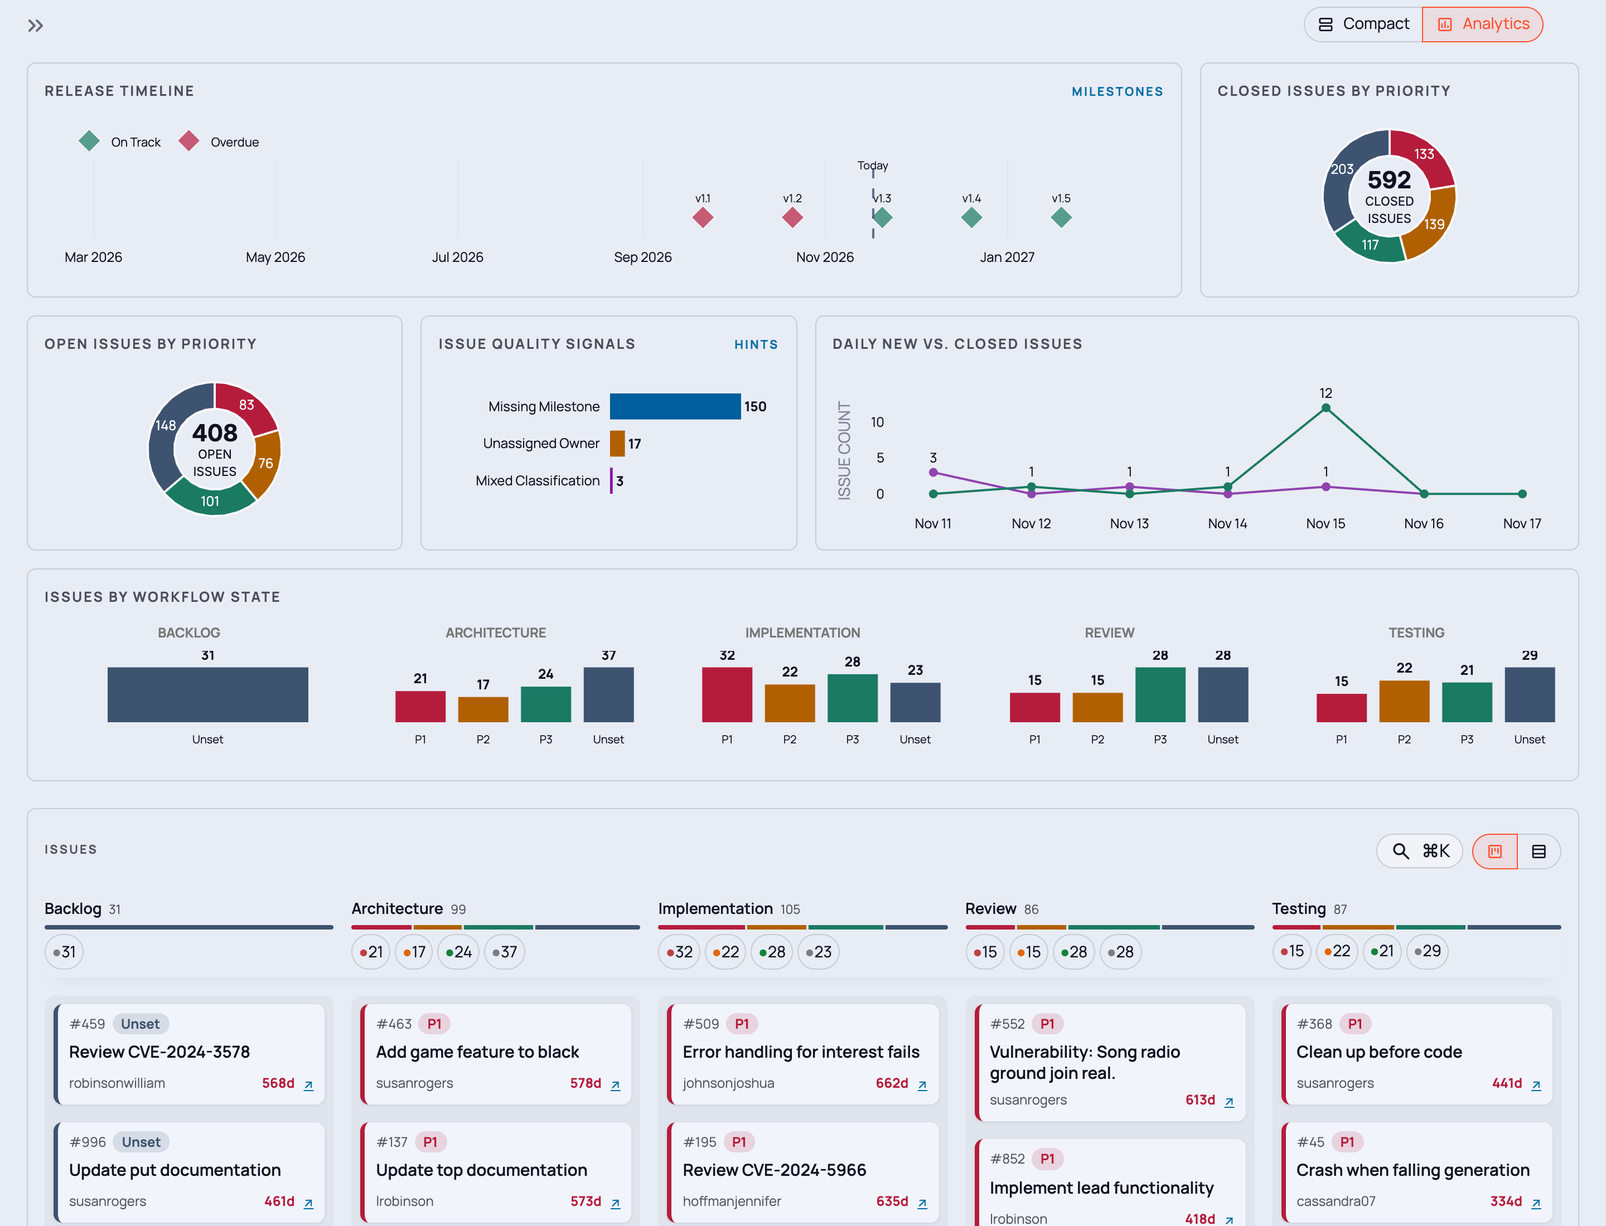
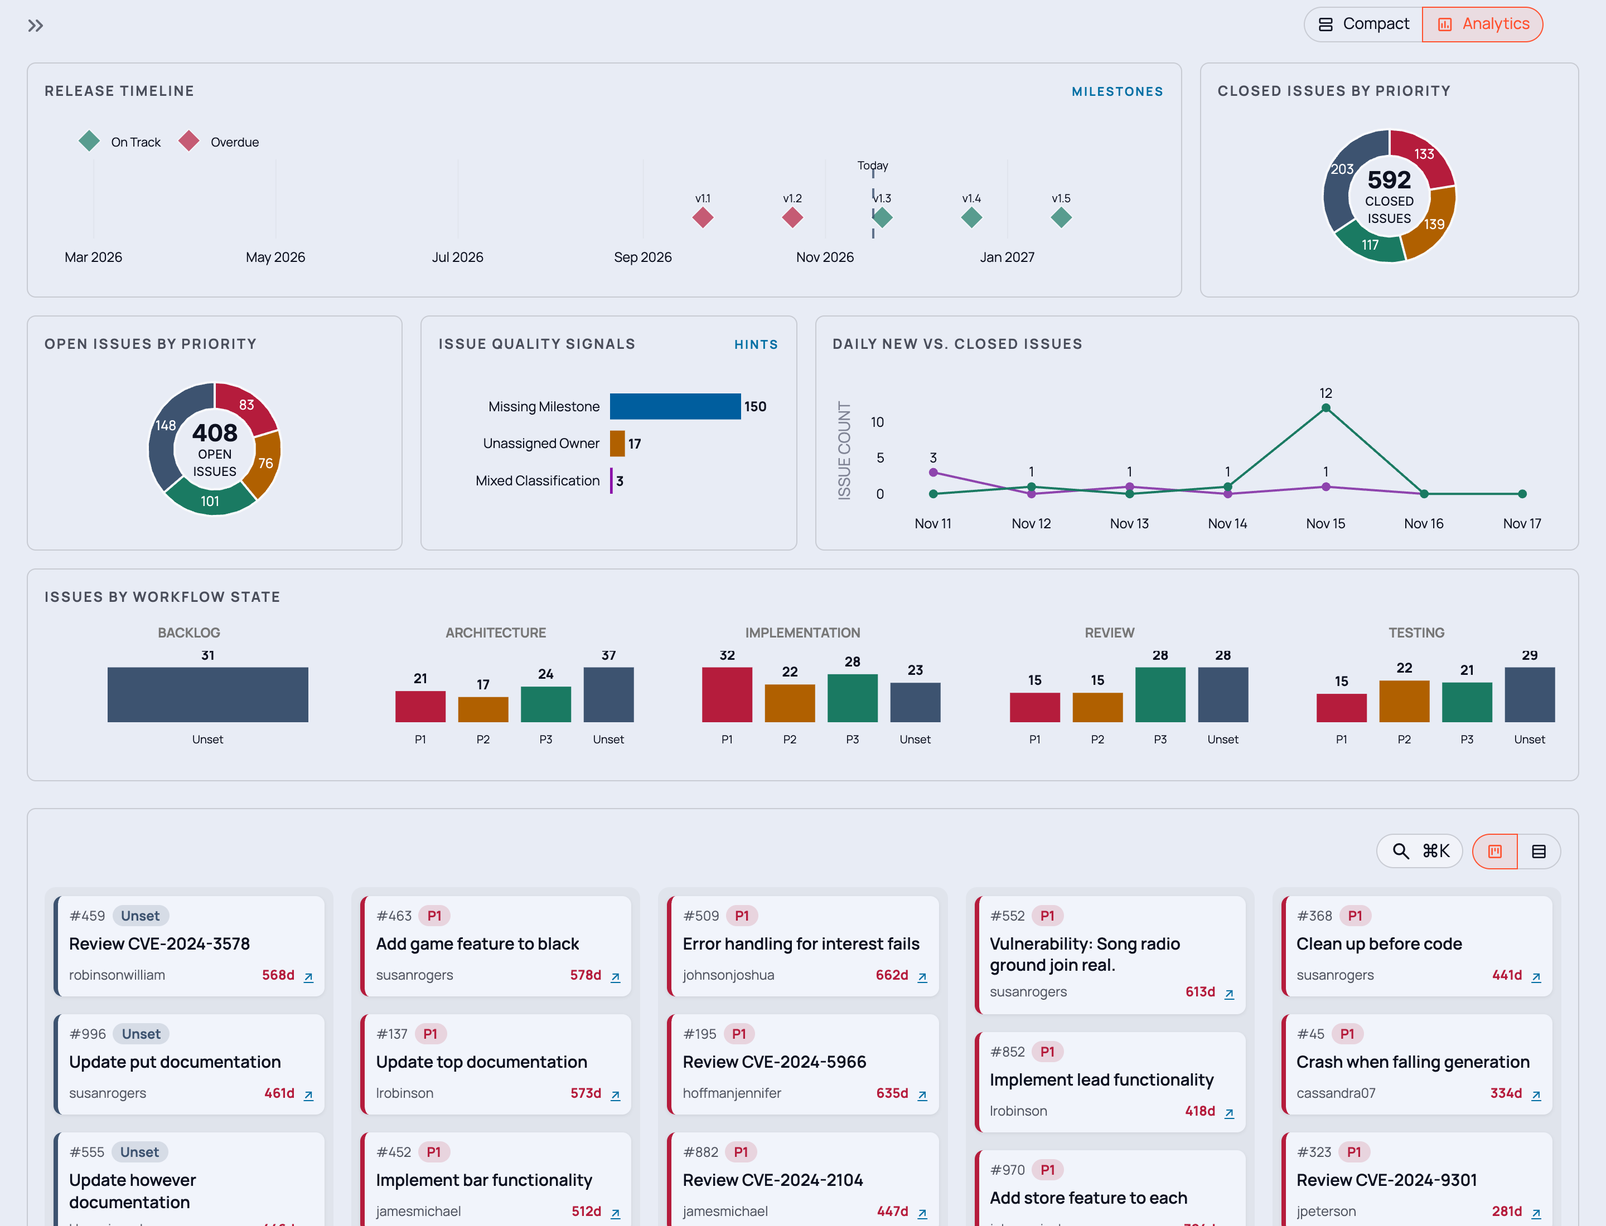
feat(dashboard): slim the Analytics board header and make chart filters toggle
In the Analytics layout the board's header holds only the search button
and the board/table switch, right-aligned, and the lanes have no headers
of their own: the charts above show the counts and the active filter, and
the pinned workflow-state row names each lane's stage.
render_issue_panel gets show_filters and lane_headers, issue_board gets
lane_headers; Compact keeps all of them.

Without filter chips, a chart filter is removed by clicking its segment
again. Charts that keep Plotly's selection see a deselect, which counts
once the chart has reported its selection back on a later run; charts
that draw their own highlight see a new selection equal to the current
filter.

The workflow-state bars now draw the selection themselves (priority_bar
options highlight and dimmed): the selected bar in full colour, all other
bars dimmed, across every stage. Plotly's own selection dimmed only
within the clicked stage and was dropped when a dimmed stage was clicked
and redrawn.

diff --git a/app/dashboard/views/issue_panel.py b/app/dashboard/views/issue_panel.py
@@ -106,10 +106,12 @@ def _reset_charts(except_chart: str | None = None) -> None:
         st.session_state["issue_chart"] = None
     resets: dict[str, int] = st.session_state.setdefault("issue_chart_resets", {})
     signatures: dict[str, str] = st.session_state.setdefault("issue_chart_signatures", {})
+    confirmed: dict[str, bool] = st.session_state.setdefault("issue_chart_confirmed", {})
     for chart_id in list(signatures):
         if chart_id != except_chart:
             resets[chart_id] = resets.get(chart_id, 0) + 1
             del signatures[chart_id]
+            confirmed.pop(chart_id, None)
 
 
 def apply_chart_selection(
@@ -123,20 +125,37 @@ def apply_chart_selection(
     Plotly keeps reporting a selection on every rerun, so a selection is only
     applied when it differs from the last one seen for that chart. The chart's
     facets replace the board's filter (the search text is kept); the other
-    charts drop their highlight.
+    charts drop their highlight. Clicking the segment that set the filter again
+    removes it.
     """
     points = (selection or {}).get("selection", {}).get("points") or []
     signatures: dict[str, str] = st.session_state.setdefault("issue_chart_signatures", {})
+    # Charts whose selection was reported again on a later run: Plotly keeps
+    # it, so an empty selection from them afterwards is the user deselecting.
+    # (A chart that redraws its highlight, like the donuts, loses the
+    # selection on the next run instead and is never confirmed.)
+    confirmed: dict[str, bool] = st.session_state.setdefault("issue_chart_confirmed", {})
     if not points:
         signatures.pop(chart_id, None)
+        if confirmed.pop(chart_id, False) and st.session_state.get("issue_chart") == chart_id:
+            _clear_chart_filter()
         return
     signature = json.dumps(points, sort_keys=True, default=str)
     if signatures.get(chart_id) == signature:
+        confirmed[chart_id] = True
         return
     signatures[chart_id] = signature
+    confirmed[chart_id] = False
 
     facets = facets_from_selection(chart_id, points, stage_filter, state_filter)
-    query = _get_facets().get("query")
+    current = _get_facets()
+    query = current.get("query")
+    # For a chart that redraws its highlight, a second click on the segment
+    # arrives as a new selection of the same thing.
+    if st.session_state.get("issue_chart") == chart_id and without_facet(
+        current, "query"
+    ) == facets:
+        _clear_chart_filter()
     if query:
         facets["query"] = query
     st.session_state["issue_summary"] = None
@@ -146,6 +165,22 @@ def apply_chart_selection(
     _reset_charts(except_chart=chart_id)
     _reset_table()
     st.rerun()
+
+
+def _clear_chart_filter() -> None:
+    """Drop the filter a chart set (a second click on its segment), keeping the
+    search text. Analytics shows no filter chips, so this is how a chart filter
+    is removed there.
+    """
+    query = _get_facets().get("query")
+    _set_facets(IssueFacets(query=query) if query else IssueFacets())
+    st.rerun()
+
+
+def active_chart() -> str | None:
+    """Return the chart whose click set the board's current filter, if any."""
+    chart = st.session_state.get("issue_chart")
+    return str(chart) if chart else None
 
 
 def chart_priority_highlight(chart_id: str) -> str | None:
@@ -985,6 +1020,7 @@ def _render_panel_header(
     facets: IssueFacets,
     count_caption: str,
     toolbar: Callable[[], None] | None,
+    show_filters: bool,
 ) -> str:
     """Render the board's header: one toolbar row, then chips if filtered.
 
@@ -1037,7 +1073,7 @@ def _render_panel_header(
 
     chips = facet_chips(facets)
     sidebar_chips = _sidebar_filter_chips()
-    if chips or sidebar_chips:
+    if show_filters and (chips or sidebar_chips):
         with st.container(
             key="issue_panel_chips", horizontal=True, vertical_alignment="center"
         ):
@@ -1073,6 +1109,8 @@ def render_issue_panel(
     df: pd.DataFrame,
     chart_stages: list[str],
     toolbar: Callable[[], None] | None = None,
+    show_filters: bool = True,
+    lane_headers: bool = True,
 ) -> None:
     """Render the issue board (or table) for the active facets.
 
@@ -1085,6 +1123,10 @@ def render_issue_panel(
             context.
         chart_stages: Stages with open issues, in workflow order (the lanes).
         toolbar: Renders the left part of the board's toolbar row.
+        show_filters: Show the active filters as chips, with the issue count.
+            Off where the charts above show the filters (Analytics).
+        lane_headers: Show a header above each lane. Off where the stages are
+            shown above the board (Analytics).
     """
     facets = _get_facets()
     effective = _with_default_state(facets)
@@ -1126,7 +1168,7 @@ def render_issue_panel(
     with st.container(border=True, key="issue_panel"):
         # Keyed so the toolbar and the chips stay pinned while the board scrolls.
         with st.container(key="issue_panel_head"):
-            view = _render_panel_header(facets, count_caption, toolbar)
+            view = _render_panel_header(facets, count_caption, toolbar, show_filters)
 
         if selected_row is not None:
             list_caption = ""
@@ -1188,6 +1230,7 @@ def render_issue_panel(
                             "highlight_stage": highlight_stage,
                             "lane_height": _LANE_HEIGHT,
                             "min_columns": len(chart_stages),
+                            "lane_headers": lane_headers,
                             "lane_header": _lane_header_renderer(
                                 facets, lane_counts, priority_color_names(df)
                             ),

diff --git a/tests/test_chart_toggle.py b/tests/test_chart_toggle.py
@@ -1,0 +1,83 @@
+"""A second click on the Analytics chart segment that set the board's filter
+removes the filter again (Analytics shows no filter chips)."""
+
+import contextlib
+import importlib
+from types import SimpleNamespace
+from typing import Any
+
+import pytest
+
+panel = importlib.import_module("app.dashboard.views.issue_panel")
+
+
+class _Rerun(Exception):
+    """Stands in for ``st.rerun``, which stops the script run."""
+
+
+@pytest.fixture
+def state(monkeypatch: pytest.MonkeyPatch) -> dict[str, Any]:
+    session: dict[str, Any] = {}
+
+    def rerun() -> None:
+        raise _Rerun
+
+    monkeypatch.setattr(panel, "st", SimpleNamespace(session_state=session, rerun=rerun))
+    return session
+
+
+def _run(selection_points: list[dict[str, Any]], chart_id: str, **filters: str) -> None:
+    """One script run in which the chart reports this selection."""
+    with contextlib.suppress(_Rerun):
+        panel.apply_chart_selection(
+            {"selection": {"points": selection_points}}, chart_id, **filters
+        )
+
+
+def test_deselecting_a_bar_removes_its_filter(state: dict[str, Any]) -> None:
+    """Plotly keeps a bar's selection, so the second click deselects it."""
+    bar = [{"x": "P1", "y": 21}]
+    _run(bar, "stage_bar_1", stage_filter="Architecture", state_filter="opened")
+    _run(bar, "stage_bar_1", stage_filter="Architecture", state_filter="opened")
+    assert state["issue_facets"] == {"stage": "Architecture", "state": "opened", "priority": "P1"}
+
+    _run([], "stage_bar_1", stage_filter="Architecture", state_filter="opened")
+
+    assert state["issue_facets"] == {}
+
+
+def test_second_click_on_a_donut_slice_removes_its_filter(state: dict[str, Any]) -> None:
+    """The donut redraws its highlight, which empties Plotly's selection, so
+    the second click on the slice arrives as a new selection."""
+    slice_ = [{"x": 0.3, "y": 0.6, "customdata": ["P1", 83]}]
+    _run(slice_, "open_donut", state_filter="opened")
+    _run([], "open_donut", state_filter="opened")
+    assert state["issue_facets"] == {"state": "opened", "priority": "P1"}
+
+    _run(slice_, "open_donut", state_filter="opened")
+
+    assert state["issue_facets"] == {}
+
+
+def test_search_text_survives_removing_a_chart_filter(state: dict[str, Any]) -> None:
+    state["issue_facets"] = {"query": "crash"}
+    slice_ = [{"customdata": ["P2", 76]}]
+    _run(slice_, "open_donut", state_filter="opened")
+    _run([], "open_donut", state_filter="opened")
+
+    _run(slice_, "open_donut", state_filter="opened")
+
+    assert state["issue_facets"] == {"query": "crash"}
+
+
+def test_a_chart_reset_by_another_filter_does_not_clear_it(state: dict[str, Any]) -> None:
+    """A chart rebuilt because the filter changed elsewhere reports an empty
+    selection; that must not remove the new filter."""
+    bar = [{"x": "P1", "y": 21}]
+    _run(bar, "stage_bar_1", stage_filter="Architecture", state_filter="opened")
+    _run(bar, "stage_bar_1", stage_filter="Architecture", state_filter="opened")
+    panel._set_facets({"state": "closed"})
+
+    _run([], "stage_bar_1", stage_filter="Architecture", state_filter="opened")
+
+    assert state["issue_facets"] == {"state": "closed"}

diff --git a/app/dashboard/widgets/tables/issue_board.py b/app/dashboard/widgets/tables/issue_board.py
@@ -168,9 +168,11 @@ def issue_board(df: pd.DataFrame, config: dict[str, Any] | None = None) -> str |
             (cards per column, default 50), ``stages`` (explicit columns, see
             ``build_board_columns``), ``highlight_stage`` (column to mark),
             ``min_columns`` (grid width in columns, so a board with fewer
-            columns keeps the same column width) and ``lane_header`` (a
+            columns keeps the same column width), ``lane_header`` (a
             callable ``(index, stage, cards)`` that renders a column's header
-            instead of the default title and count).
+            instead of the default title and count) and ``lane_headers``
+            (False: no column headers, for a page that shows the stages
+            above the board; default True).
 
     Returns:
         The ``web_url`` of the card clicked in this run, or None.
@@ -192,23 +194,26 @@ def issue_board(df: pd.DataFrame, config: dict[str, Any] | None = None) -> str |
     # stay pinned while the page scrolls: the lanes' row scrolls sideways on a
     # small screen, and nothing inside a sideways-scrolling row can stick to
     # the page (see the theme CSS and ``views.pinned_header``).
-    with st.container(key=f"{key}-ibheads"):
-        head_slots = st.columns(column_count)
+    head_slots: list[Any] = [None] * column_count
+    if config.get("lane_headers", True):
+        with st.container(key=f"{key}-ibheads"):
+            head_slots = list(st.columns(column_count))
     slots = st.columns(column_count)
     for i, (head_slot, slot, (stage, cards)) in enumerate(
         zip(head_slots, slots, columns, strict=False)
     ):
         lane_kind = "iblane-hl" if stage == highlight_stage else "iblane"
-        with head_slot:
-            lane_header = config.get("lane_header")
-            if lane_header is not None:
-                lane_header(i, stage, cards)
-            else:
-                st.markdown(
-                    f'<div class="ib-lane-head{" ib-lane-hl" if lane_kind == "iblane-hl" else ""}">'
-                    f"<b>{html.escape(stage)}</b> <small>{len(cards)}</small></div>",
-                    unsafe_allow_html=True,
-                )
+        if head_slot is not None:
+            with head_slot:
+                lane_header = config.get("lane_header")
+                if lane_header is not None:
+                    lane_header(i, stage, cards)
+                else:
+                    st.markdown(
+                        f'<div class="ib-lane-head{" ib-lane-hl" if lane_kind == "iblane-hl" else ""}">'
+                        f"<b>{html.escape(stage)}</b> <small>{len(cards)}</small></div>",
+                        unsafe_allow_html=True,
+                    )
         with slot:
             with st.container(height=lane_height, border=False, key=f"{key}-{lane_kind}-{i}"):
                 if cards.empty:

diff --git a/app/dashboard/views/overview_analytics.py b/app/dashboard/views/overview_analytics.py
@@ -23,6 +23,7 @@ from app.dashboard.engine import (
 from app.dashboard.theme import get_palette, get_plotly_font_color, with_alpha
 from app.dashboard.views.issue_data import _build_overview_quality_signal_df
 from app.dashboard.views.issue_panel import (
+    active_chart,
     apply_chart_selection,
     chart_key,
     chart_priority_highlight,
@@ -128,6 +129,10 @@ def render_analytics_layout(
         if not stages:
             st.info("No stage data available.")
             return
+        # The stages are separate charts, so each draws the selection itself:
+        # the clicked chart its selected bar, the others all dimmed.
+        active = active_chart() or ""
+        stage_bar_active = active.startswith("stage_bar_")
         for index, (column, stage) in enumerate(zip(st.columns(len(stages)), stages, strict=True)):
             with column:
                 st.markdown(
@@ -140,6 +145,8 @@ def render_analytics_layout(
                     config={
                         "height": 115,
                         "key": chart_key(f"analytics_stage_bar_{index}", f"stage_bar_{index}"),
+                        "highlight": chart_priority_highlight(f"stage_bar_{index}"),
+                        "dimmed": stage_bar_active and active != f"stage_bar_{index}",
                     },
                 )
                 select(selection, f"stage_bar_{index}", stage_filter=stage, state_filter="opened")

diff --git a/app/dashboard/theme.py b/app/dashboard/theme.py
@@ -645,7 +645,6 @@ div[data-testid="stRadio"] > div > label[data-checked="true"] {{
     padding-left: 1.5rem !important;
     padding-right: 1.5rem !important;
 }}
-.ov-label {{ display: inline-block; font-size: 0.68rem; font-weight: 700; line-height: 1.5; letter-spacing: 0.14em; text-transform: uppercase; color: {text_muted}; white-space: nowrap; }}
 .st-key-overview_releases {{ gap: 0; }}
 /* Analytics: the workflow-state row stays pinned above the board. */
 .st-key-analytics_flow > .st-key-analytics_workflow,
@@ -690,6 +689,9 @@ div[data-testid="stRadio"] > div > label[data-checked="true"] {{
 .st-key-issue_panel_toolbar {{ flex-wrap: nowrap; align-items: flex-start !important; }}
 .st-key-issue_panel_toolbar_left {{ flex: 1 1 0 !important; min-width: 0; flex-wrap: wrap; row-gap: 0.3rem; column-gap: 0.35rem; }}
 .st-key-issue_panel_actions {{ flex: none !important; }}
+/* Right-aligned also when the toolbar has nothing on the left (Analytics). */
+.st-key-issue_panel_toolbar > .st-key-issue_panel_actions,
+.st-key-issue_panel_toolbar > :has(> .st-key-issue_panel_actions) {{ margin-left: auto; }}
 .st-key-issue_panel_toolbar_left [data-testid="stMarkdown"], .st-key-issue_panel_toolbar_left [data-testid="stMarkdownContainer"] {{ margin-bottom: 0 !important; }}
 .st-key-issue_panel_actions {{ gap: 0.5rem; }}
 .st-key-issue_panel_actions [data-testid="stButton"] button,

diff --git a/app/dashboard/widgets/charts/priority_bar.py b/app/dashboard/widgets/charts/priority_bar.py
@@ -22,7 +22,12 @@ def priority_bar(
 
     Args:
         df: DataFrame of issues
-        config: Optional configuration
+        config: Optional configuration; ``highlight`` names a priority whose
+            bar stays fully coloured while the others are dimmed, and
+            ``dimmed`` dims every bar (for a chart beside the one whose
+            selection is active). The chart draws this itself rather than
+            relying on Plotly's selection, which Streamlit drops whenever the
+            figure changes.
     """
     config = config or {}
     height = config.get("height", 250)
@@ -88,6 +93,12 @@ def priority_bar(
         textposition="outside",
         textfont=dict(color=get_plotly_font_color(), size=12) 
     )
+    highlight = config.get("highlight")
+    if highlight is not None or config.get("dimmed"):
+        # One trace per priority; 0.2 is the opacity Plotly gives unselected
+        # points.
+        for trace in fig.data:
+            trace.opacity = 1.0 if trace.name == highlight else 0.2
 
     fig.update_layout(
         **plotly_layout(

diff --git a/app/dashboard/views/overview.py b/app/dashboard/views/overview.py
@@ -68,11 +68,6 @@ def _render_layout_switch() -> None:
         )
 
 
-def _render_issues_label() -> None:
-    """Left part of the board toolbar in the Analytics layout."""
-    st.markdown('<span class="ov-label">Issues</span>', unsafe_allow_html=True)
-
-
 def _write_layout_query(layout: str) -> None:
     if layout == "Analytics":
         if st.query_params.get(_LAYOUT_QUERY_KEY) != "analytics":
@@ -145,7 +140,11 @@ def render_overview(
             stages,
             timeline_source,
             active_milestone,
-            board=lambda: render_issue_panel(df, stages, toolbar=_render_issues_label),
+            # The charts above show the stages and the filters, so the board
+            # keeps only the search and the view switch.
+            board=lambda: render_issue_panel(
+                df, stages, show_filters=False, lane_headers=False
+            ),
         )
     else:
         _render_release_rail(timeline_source, active_milestone)

diff --git a/docs/spec/TSD_View_Overview.md b/docs/spec/TSD_View_Overview.md
@@ -84,7 +84,7 @@ The header counts ignore the stage and priority filters, so every lane keeps its
 | 2 | Open Issues by Priority (donut), Issue Quality Signals, Daily New vs. Closed Issues (7 days) |
 | 3 | Issues by Workflow State (priority bars per stage); stays pinned below the header while the board scrolls |
 
-The quality signals count open issues only, so they sit next to the open-issues donut. The workflow-state row and the board share a container, so the row is released where the board ends; its stage columns line up with the board's lanes. Below that row, the board's toolbar and filter chips and then its lane headers are pinned as well; in the Compact layout the same two rows are pinned below Streamlit's header bar.
+The quality signals count open issues only, so they sit next to the open-issues donut. The workflow-state row and the board share a container, so the row is released where the board ends; its stage columns line up with the board's lanes. Below that row, the board's header (search and view switch) is pinned as well; in the Compact layout the board's toolbar with the summary pills and filter chips, and then its lane headers, are pinned below Streamlit's header bar.
 
 How the pinned rows work (`app/dashboard/views/pinned_header.py`):
 
@@ -94,7 +94,7 @@ How the pinned rows work (`app/dashboard/views/pinned_header.py`):
 
 The donuts are drawn on x/y axes instead of as Plotly pies, because Plotly reports no click selection for pie (or polar bar) slices. Each slice is a filled ring segment; a grid of invisible markers over the ring and one large marker over the hole are the click targets, carrying `[priority, count]` (the centre: `__all__`) in `customdata`. Since the click targets are invisible, the donut draws its own highlight: while its filter is active, the other slices are dimmed (`highlight` option, from `chart_priority_highlight`).
 
-A click on a chart segment filters the board below the grid (it does not open a dialog) and the segment stays highlighted by Plotly's own selection (the donuts draw theirs, see above). When the filter changes another way (a chip, a pill, "Clear all", the search panel), the charts are rebuilt with new widget keys so the highlight disappears. In this layout the board's toolbar shows an "Issues" label instead of the summary pills, since the charts show the same counts.
+A click on a chart segment filters the board below the grid (it does not open a dialog) and the segment stays highlighted by Plotly's own selection (the donuts draw theirs, see above). When the filter changes another way (a chip, a pill, "Clear all", the search panel), the charts are rebuilt with new widget keys so the highlight disappears. In this layout the board's header holds only the search button and the board/table switch, and the lanes have no headers of their own (`render_issue_panel(..., show_filters=False, lane_headers=False)`): the charts above show the counts and the active filter, and the pinned workflow-state row names each lane's stage. Without filter chips, a chart filter is removed by clicking its segment again. Charts that keep Plotly's selection (the daily new-vs-closed line, the quality signals) see that click as a deselect, which counts only once the chart has reported its selection back on a later run; charts that draw their own highlight (the donuts, the workflow-state bars) lose Plotly's selection when redrawn, so there the click arrives as a new selection equal to the current filter. The search panel (Cmd+K) also lists the active filters, each with a remove button. Each stage in the workflow-state row is a separate chart. They draw the selection themselves, like the donuts (`priority_bar` options `highlight` and `dimmed`): the clicked chart keeps its selected bar in full colour and dims the others, and the other stage charts are dimmed entirely. Plotly's own selection would not do: it dims only within the clicked chart, and Streamlit drops it when the chart is redrawn, for example when a dimmed stage is clicked.
 
 ## 4. Interactions
 
